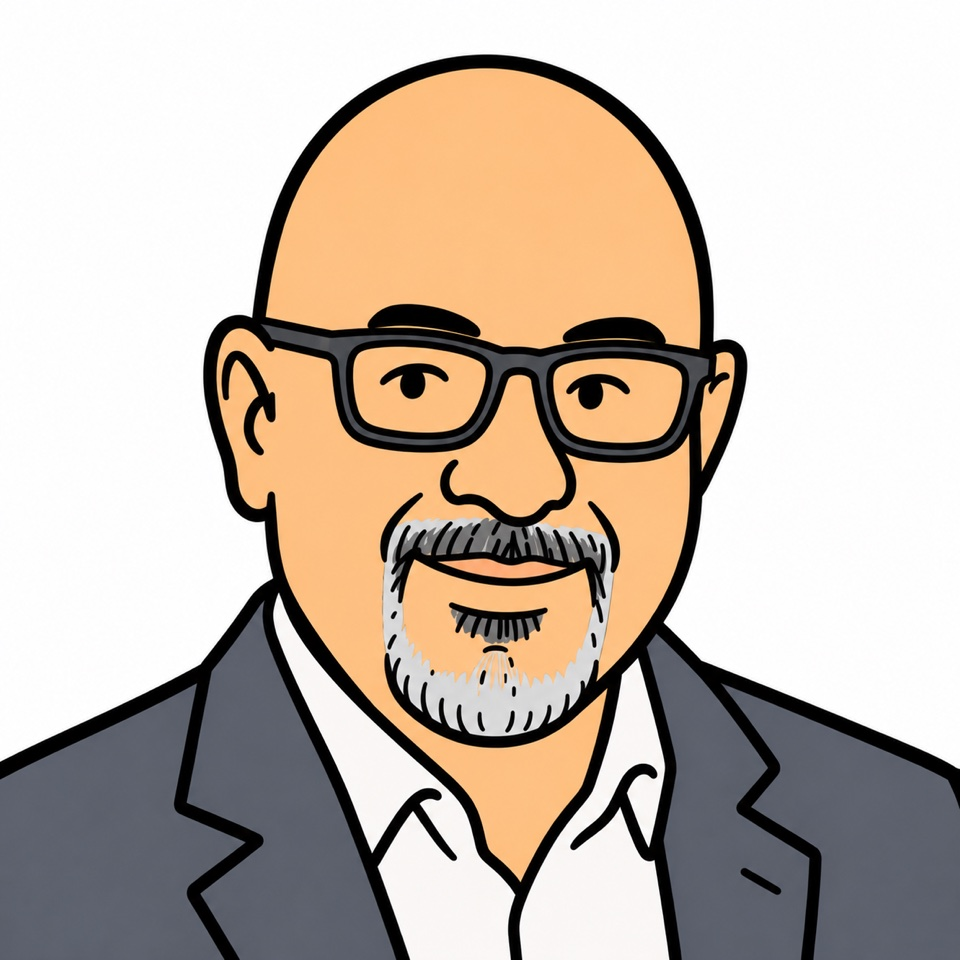
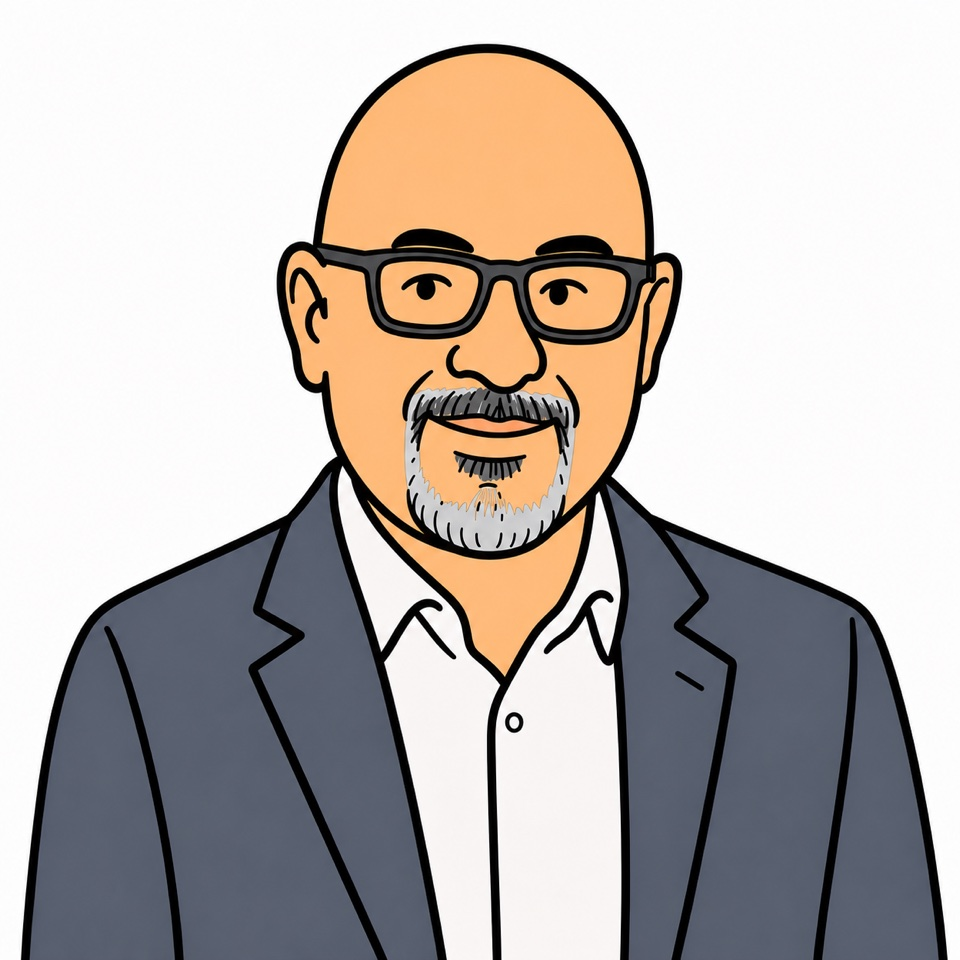
new cards éauipe

diff --git a/accueil.html b/accueil.html
@@ -125,7 +125,7 @@
                 <div class="team-avatar" role="img" aria-label="Avatar de Gilles">
                   <img src="assets/avatars/gilles.jpg" alt="" width="960" height="960" loading="lazy" decoding="async" />
                 </div>
-                <p class="team-card__role">Senior Cybersecurity &amp; Technology Consultant</p>
+                <p class="team-card__role">Directeur de projet</p>
                 <h4>Gilles</h4>
                 <div class="team-card__bio">
                   <p>Gilles est un professionnel senior de la banque, de la cybersécurité et de la conformité réglementaire. Il possède plus de 20 ans d’expérience dans le secteur bancaire, acquise en France, aux États-Unis et en Asie du Sud-Est, dont 12 années chez HSBC dans les environnements de banque commerciale et de banque de financement et d’investissement. Depuis 2021, il s’est spécialisé dans la cybersécurité, la conformité réglementaire, l’intelligence artificielle et la résilience opérationnelle, associant une solide expérience bancaire de terrain à une compréhension approfondie des risques réglementaires et technologiques. Certifié DORA Lead Manager, il intervient régulièrement lors de conférences internationales, notamment au Forum InCyber en France, au Luxembourg et au Maroc, sur les sujets de résilience opérationnelle, de cybersécurité et de conformité réglementaire dans le secteur financier et les autres industries critiques.</p>
@@ -162,11 +162,13 @@
 
               <article class="team-card">
                 <div class="team-avatar" role="img" aria-label="Avatar de Mickael">
-                  <img src="assets/avatars/mickael.svg" alt="" width="92" height="92" loading="lazy" />
+                  <img src="assets/avatars/mickael.jpg" alt="" width="960" height="960" loading="lazy" decoding="async" />
                 </div>
                 <p class="team-card__role">Directeur de projet</p>
                 <h4>Mickael</h4>
-                <div class="team-card__bio">Bio à compléter</div>
+                <div class="team-card__bio">
+                  <p>Mickael possède treize années d’expérience dans les risques informatiques, la cybersécurité et la conformité réglementaire, acquises chez Deloitte, PwC, Accenture, Onepoint et LSEG. Il accompagne les institutions financières sur la gouvernance de l’IA, DORA, le RGPD, SOX, NIST et ISO/IEC 27001, en reliant les exigences réglementaires aux dispositifs de résilience opérationnelle et de contrôle. Il est ISO/IEC 27001 Senior Lead Implementer, DORA Lead Manager et formateur certifié, avec une spécialisation sur ISO/IEC 42001.</p>
+                </div>
               </article>
 
               <article class="team-card">
@@ -175,7 +177,9 @@
                 </div>
                 <p class="team-card__role">Directeur de projet</p>
                 <h4>Parham</h4>
-                <div class="team-card__bio">Bio à compléter</div>
+                <div class="team-card__bio">
+                  <p>Parham Mouli est un responsable senior en cybersécurité, technologies, résilience opérationnelle et gouvernance de l’IA, doté d’une solide expérience au sein d’institutions financières systémiques. Chez LCH, il a piloté la mise en œuvre de DORA et coordonné la revue d’audit PASSI-LPM, supervisant 22 prestataires ainsi qu’une initiative de cloud souverain SecNumCloud répondant aux exigences de la LPM. Son expertise associe adoption sécurisée de l’IA, résilience opérationnelle, risques technologiques, gouvernance de la cybersécurité et conformité réglementaire. Certifié DORA Lead Manager, ISO/IEC 27001 Senior Lead Auditor et Senior Lead Implementer, il développe également une expertise avancée en gouvernance de l’IA selon ISO/IEC 42001. Son approche transversale relie IA, cybersécurité, technologies, risques, paiements, trésorerie, achats et direction générale, tout en maintenant la responsabilité humaine au centre.</p>
+                </div>
               </article>
             </div>
           </section>
@@ -186,7 +190,12 @@
             <div class="team-grid">
               <article class="team-card"><div class="team-avatar" role="img" aria-label="Avatar d’Aleksander"><span>A</span></div><p class="team-card__role">Consultant senior</p><h4>Aleksander</h4><div class="team-card__bio">Bio à compléter</div></article>
               <article class="team-card"><div class="team-avatar" role="img" aria-label="Avatar d’Audrey"><span>A</span></div><p class="team-card__role">Consultant senior</p><h4>Audrey</h4><div class="team-card__bio">Bio à compléter</div></article>
-              <article class="team-card"><div class="team-avatar" role="img" aria-label="Avatar d’Aurélien"><span>A</span></div><p class="team-card__role">Consultant senior</p><h4>Aurélien</h4><div class="team-card__bio">Bio à compléter</div></article>
+              <article class="team-card">
+                <div class="team-avatar" role="img" aria-label="Avatar d’Aurélien"><img src="assets/avatars/aurelien.jpg" alt="" width="960" height="960" loading="lazy" decoding="async" /></div>
+                <p class="team-card__role">Consultant senior</p>
+                <h4>Aurélien</h4>
+                <div class="team-card__bio"><p>Aurélien possède plus de vingt ans d’expérience dans la gouvernance informatique, la cybersécurité, la résilience numérique et la gestion des risques liés aux tiers. Il a piloté des transformations cloud, ERP et post-acquisition en Europe et en Amérique latine. Son approche pragmatique renforce les services critiques, la supervision des prestataires et la conformité à DORA. Il est certifié DORA, ISO/IEC 27001, ISO/IEC 27005, DPO CNIL pour le RGPD et en protection des données.</p></div>
+              </article>
               <article class="team-card"><div class="team-avatar" role="img" aria-label="Avatar d’Azad"><span>A</span></div><p class="team-card__role">Consultant senior</p><h4>Azad</h4><div class="team-card__bio">Bio à compléter</div></article>
               <article class="team-card"><div class="team-avatar" role="img" aria-label="Avatar de Céline"><span>C</span></div><p class="team-card__role">Consultant senior</p><h4>Céline</h4><div class="team-card__bio">Bio à compléter</div></article>
               <article class="team-card"><div class="team-avatar" role="img" aria-label="Avatar de Clément"><span>C</span></div><p class="team-card__role">Consultant senior</p><h4>Clément</h4><div class="team-card__bio">Bio à compléter</div></article>
@@ -214,7 +223,12 @@
               <article class="team-card"><div class="team-avatar" role="img" aria-label="Avatar de Mehdi"><span>M</span></div><p class="team-card__role">Consultant senior</p><h4>Mehdi</h4><div class="team-card__bio">Bio à compléter</div></article>
               <article class="team-card"><div class="team-avatar" role="img" aria-label="Avatar de Nahia"><span>N</span></div><p class="team-card__role">Consultant senior</p><h4>Nahia</h4><div class="team-card__bio">Bio à compléter</div></article>
               <article class="team-card"><div class="team-avatar" role="img" aria-label="Avatar de Nicolas"><span>N</span></div><p class="team-card__role">Consultant senior</p><h4>Nicolas</h4><div class="team-card__bio">Bio à compléter</div></article>
-              <article class="team-card"><div class="team-avatar" role="img" aria-label="Avatar de Pénélope"><span>P</span></div><p class="team-card__role">Consultant senior</p><h4>Pénélope</h4><div class="team-card__bio">Bio à compléter</div></article>
+              <article class="team-card">
+                <div class="team-avatar" role="img" aria-label="Avatar de Pénélope"><span>P</span></div>
+                <p class="team-card__role">Consultant senior</p>
+                <h4>Pénélope</h4>
+                <div class="team-card__bio"><p>Forte de quinze années d’expérience en conformité et en gestion des risques, Pénélope est spécialisée dans la résilience opérationnelle numérique, la gouvernance de l’IA et la sécurité des données contextuelles. Elle associe traitement automatique du langage naturel, conception centrée sur l’humain, éthique et expertise réglementaire en cybersécurité, DORA et AI Act, afin de maintenir le jugement humain, l’inclusion et la responsabilité au cœur de la transformation numérique.</p></div>
+              </article>
               <article class="team-card"><div class="team-avatar" role="img" aria-label="Avatar de Prasanthi"><span>P</span></div><p class="team-card__role">Consultant senior</p><h4>Prasanthi</h4><div class="team-card__bio">Bio à compléter</div></article>
               <article class="team-card"><div class="team-avatar" role="img" aria-label="Avatar de Samy"><span>S</span></div><p class="team-card__role">Consultant senior</p><h4>Samy</h4><div class="team-card__bio">Bio à compléter</div></article>
               <article class="team-card"><div class="team-avatar" role="img" aria-label="Avatar de Serge"><span>S</span></div><p class="team-card__role">Consultant senior</p><h4>Serge</h4><div class="team-card__bio">Bio à compléter</div></article>

diff --git a/site.js b/site.js
@@ -70,8 +70,10 @@
       if (!avatar || !role || !heading || !bio) return;
 
       const name = heading.textContent.trim();
-      const details = document.createElement("details");
-      const summary = document.createElement("summary");
+      const bioText = bio.textContent.trim();
+      const hasBio = bioText !== "" && !/^Bio à compléter\.?$/i.test(bioText);
+      const profile = document.createElement(hasBio ? "details" : "div");
+      const surface = document.createElement(hasBio ? "summary" : "div");
       const portraitPanel = document.createElement("span");
       const portrait = document.createElement("span");
       const identity = document.createElement("span");
@@ -80,11 +82,15 @@
       const sheetLink = document.createElement("span");
       const barcode = document.createElement("span");
       const sheetLabel = document.createElement("span");
-      const expanded = document.createElement("div");
-      const expandedTitle = document.createElement("p");
 
-      details.className = "team-card__profile";
-      summary.setAttribute("aria-label", `Afficher la fiche synthèse de ${name}`);
+      profile.className = "team-card__profile";
+      surface.className = "team-card__summary";
+      if (hasBio) {
+        surface.setAttribute("aria-label", `Afficher la fiche synthèse de ${name}`);
+      } else {
+        profile.classList.add("team-card__profile--unavailable");
+        surface.setAttribute("aria-disabled", "true");
+      }
       portraitPanel.className = "team-card__portrait-panel";
       portrait.className = "team-card__portrait";
       portrait.setAttribute("role", "img");
@@ -97,33 +103,43 @@
       barcode.setAttribute("aria-hidden", "true");
       barcode.style.backgroundPosition = `${(index * 7) % 19}px 0, ${(index * 11) % 23}px 0`;
       sheetLabel.className = "team-card__sheet-label";
-      expanded.className = "team-card__expanded";
-      expandedTitle.className = "team-card__expanded-title";
 
       while (avatar.firstChild) portrait.append(avatar.firstChild);
       nameLabel.textContent = name;
       roleLabel.textContent = role.textContent.trim();
       sheetLabel.textContent = "Fiche synthèse";
-      expandedTitle.textContent = `Fiche synthèse — ${name}`;
 
       portraitPanel.append(portrait);
       sheetLink.append(barcode, sheetLabel);
       identity.append(nameLabel, roleLabel, sheetLink);
-      summary.append(portraitPanel, identity);
-      expanded.append(expandedTitle, bio);
-      details.append(summary, expanded);
+      surface.append(portraitPanel, identity);
+      profile.append(surface);
+
+      if (hasBio) {
+        const expanded = document.createElement("div");
+        const expandedTitle = document.createElement("p");
+        expanded.className = "team-card__expanded";
+        expandedTitle.className = "team-card__expanded-title";
+        expandedTitle.textContent = `Fiche synthèse — ${name}`;
+        expanded.append(expandedTitle, bio);
+        profile.append(expanded);
+      } else {
+        bio.remove();
+      }
 
       avatar.remove();
       role.remove();
       heading.remove();
-      card.append(details);
+      card.append(profile);
 
-      details.addEventListener("toggle", () => {
-        summary.setAttribute("aria-label", `${details.open ? "Fermer" : "Afficher"} la fiche synthèse de ${name}`);
-        if (!details.open) return;
+      if (!hasBio) return;
 
-        card.closest(".team-grid")?.querySelectorAll(".team-card__profile[open]").forEach((profile) => {
-          if (profile !== details) profile.open = false;
+      profile.addEventListener("toggle", () => {
+        surface.setAttribute("aria-label", `${profile.open ? "Fermer" : "Afficher"} la fiche synthèse de ${name}`);
+        if (!profile.open) return;
+
+        card.closest(".team-grid")?.querySelectorAll(".team-card__profile[open]").forEach((otherProfile) => {
+          if (otherProfile !== profile) otherProfile.open = false;
         });
       });
     });

diff --git a/site.css b/site.css
@@ -888,17 +888,22 @@
     }
 
     .team-card__profile,
-    .team-card__profile > summary {
+    .team-card__profile > summary,
+    .team-card__summary {
       min-width: 0;
     }
 
-    .team-card__profile > summary {
+    .team-card__profile > summary,
+    .team-card__summary {
       display: grid;
       grid-template-columns: minmax(0, 44%) minmax(0, 56%);
       min-height: 178px;
       padding: 0;
-      cursor: pointer;
       list-style: none;
+    }
+
+    .team-card__profile > summary {
+      cursor: pointer;
     }
 
     .team-card__profile > summary::-webkit-details-marker {
@@ -916,8 +921,8 @@
       place-items: center;
       min-width: 0;
       padding: var(--space-6);
-      border-inline-end: 1px solid var(--line);
-      background: color-mix(in srgb, var(--color-brand-2) 20%, var(--color-page));
+      border-inline-end: 1px solid color-mix(in srgb, var(--color-brand-2) 55%, var(--color-brand-1));
+      background: var(--color-brand-1);
     }
 
     .team-card__portrait {
@@ -925,7 +930,7 @@
       width: min(100%, 132px);
       aspect-ratio: 1;
       place-items: center;
-      border: 1px solid color-mix(in srgb, var(--color-brand-2) 48%, transparent);
+      border: 2px solid color-mix(in srgb, var(--color-brand-2) 72%, var(--color-page));
       border-radius: 50%;
       overflow: hidden;
       background: color-mix(in srgb, var(--color-brand-2) 16%, var(--color-page));
@@ -998,6 +1003,19 @@
       font-size: 1.1rem;
       line-height: 1;
       transition: transform var(--duration-base) var(--ease-out);
+    }
+
+    .team-card__profile--unavailable .team-card__barcode {
+      opacity: .18;
+    }
+
+    .team-card__profile--unavailable .team-card__sheet-label {
+      color: var(--color-text-muted);
+      opacity: .58;
+    }
+
+    .team-card__profile--unavailable .team-card__sheet-label::after {
+      display: none;
     }
 
     .team-card__profile[open] .team-card__sheet-label::after {
@@ -1149,6 +1167,12 @@
       transform: none;
     }
 
+    .team-card:has(.team-card__profile--unavailable):hover {
+      transform: none;
+      border-color: var(--line);
+      box-shadow: var(--shadow);
+    }
+
     .cta::before {
       --organic-size: clamp(240px, 28vw, 360px);
       --organic-ratio: 1546 / 1593;
@@ -1179,7 +1203,8 @@
     }
     @media (max-width: 640px) {
       .team-grid { grid-template-columns: 1fr; }
-      .team-card__profile > summary {
+      .team-card__profile > summary,
+      .team-card__summary {
         grid-template-columns: minmax(0, 42%) minmax(0, 58%);
       }
       .team-card__profile[open] > summary {
